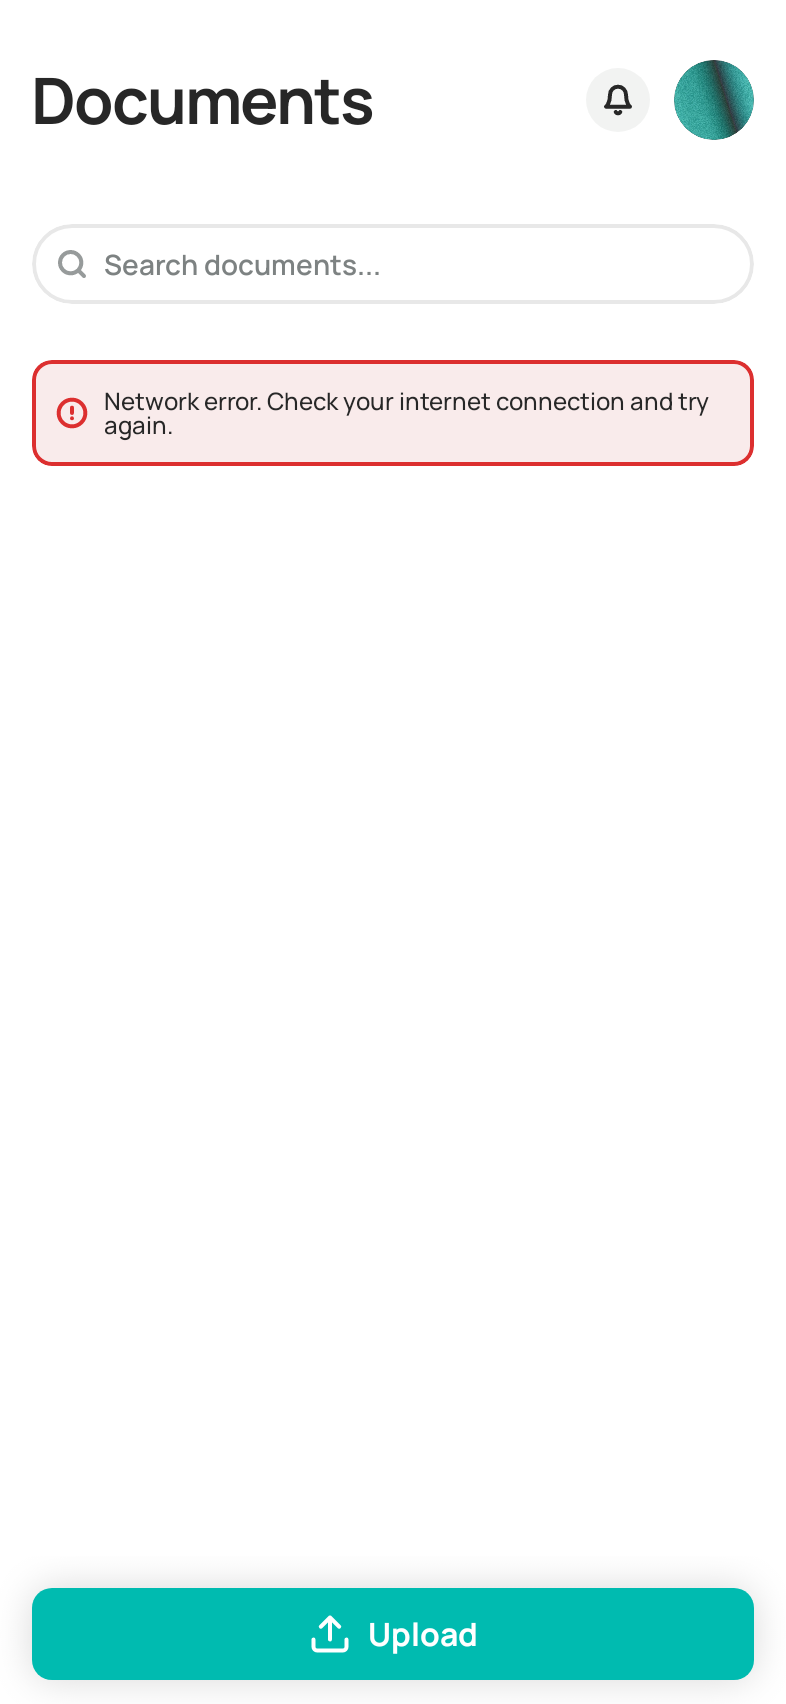
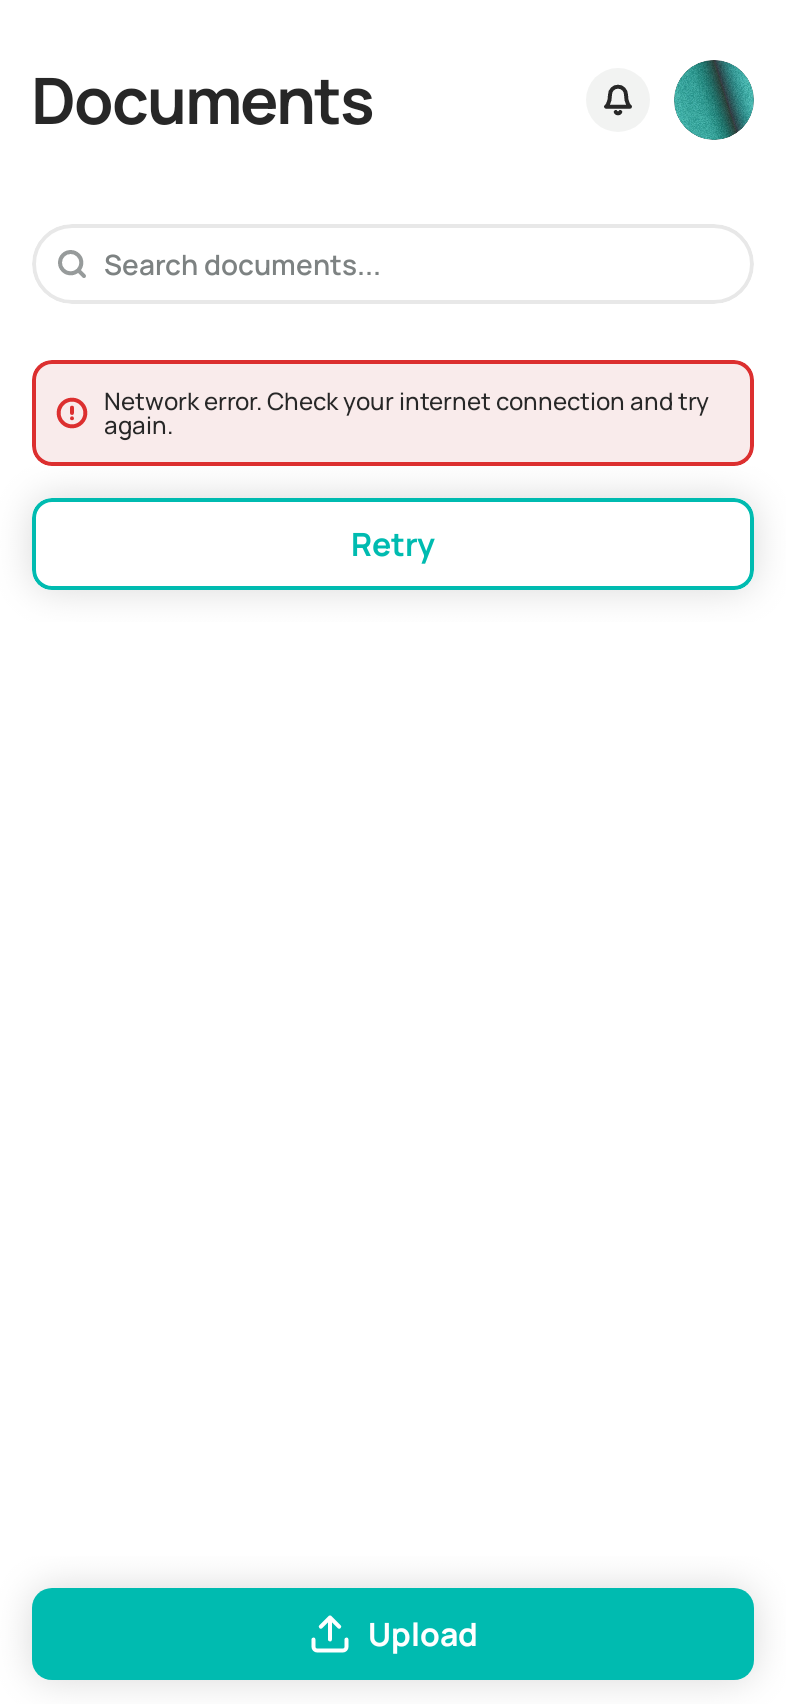
Offer Retry when the first load of Home, Bookings or Documents fails

Changed region(s): [[0.4275, 0.311, 0.5496, 0.3421], [0.9466, 0.2799, 0.9771, 0.3421], [0.0305, 0.2799, 0.0611, 0.3421]]

diff --git a/composeApp/src/commonMain/kotlin/shifa/uz/ui/home/HomeScreen.kt b/composeApp/src/commonMain/kotlin/shifa/uz/ui/home/HomeScreen.kt
@@ -49,6 +49,7 @@ import shifa.composeapp.generated.resources.now
 import shifa.composeapp.generated.resources.patient
 import shifa.composeapp.generated.resources.paymentPendingTitle
 import shifa.composeapp.generated.resources.pending
+import shifa.composeapp.generated.resources.retry
 import shifa.composeapp.generated.resources.started
 import shifa.composeapp.generated.resources.starts
 import shifa.composeapp.generated.resources.taskCategoryExercise
@@ -77,6 +78,7 @@ import shifa.uz.ui.widgets.ShifaListSkeleton
 import shifa.uz.ui.widgets.ShifaMainHeader
 import shifa.uz.ui.widgets.ShifaPageElement
 import shifa.uz.ui.widgets.ShifaPageElementType
+import shifa.uz.ui.widgets.ShifaSecondaryButton
 import shifa.uz.ui.widgets.ShifaSection
 import shifa.uz.ui.widgets.ShifaSectionType
 import shifa.uz.ui.widgets.ShifaTaskCard
@@ -174,6 +176,14 @@ internal fun HomeContent(
                     Column(verticalArrangement = Arrangement.spacedBy(ShifaSpacing.Gap.Md)) {
                         state.error?.let {
                             ShifaBanner(stringResource(it), Res.drawable.ic_alert_circle_16, ShifaBannerType.Error)
+                            // A first load that failed leaves the page empty: Retry, as on Messages.
+                            if (state.upcoming == null && !state.isLoading && !state.isRefreshing) {
+                                ShifaSecondaryButton(
+                                    stringResource(Res.string.retry),
+                                    onRefresh,
+                                    Modifier.fillMaxWidth(),
+                                )
+                            }
                         }
                         // Figma 1647:10075: a visit in its join window has its own section, and View opens it.
                         val live = state.upcoming?.filter { it.isNow(now) }.orEmpty()

diff --git a/composeApp/src/commonMain/kotlin/shifa/uz/ui/bookings/BookingsScreen.kt b/composeApp/src/commonMain/kotlin/shifa/uz/ui/bookings/BookingsScreen.kt
@@ -30,6 +30,7 @@ import shifa.composeapp.generated.resources.noAppointmentsFound
 import shifa.composeapp.generated.resources.noDoctorsFound
 import shifa.composeapp.generated.resources.pastAppointments
 import shifa.composeapp.generated.resources.recommendedDoctors
+import shifa.composeapp.generated.resources.retry
 import shifa.composeapp.generated.resources.search
 import shifa.composeapp.generated.resources.unknownDoctor
 import shifa.composeapp.generated.resources.videoConsultation
@@ -56,6 +57,7 @@ import shifa.uz.ui.widgets.ShifaPageElement
 import shifa.uz.ui.widgets.ShifaPageElementType
 import shifa.uz.ui.widgets.ShifaPastAppointmentCard
 import shifa.uz.ui.widgets.ShifaSearchField
+import shifa.uz.ui.widgets.ShifaSecondaryButton
 import shifa.uz.ui.widgets.ShifaSectionType
 import shifa.uz.ui.widgets.ShifaTag
 import shifa.uz.ui.widgets.ShifaTagType
@@ -148,6 +150,10 @@ internal fun BookingsContent(
                 ShifaPageElement(ShifaPageElementType.Body) {
                     Column(verticalArrangement = Arrangement.spacedBy(ShifaSpacing.Gap.Md)) {
                         Banners(state.error, state.notice)
+                        // A first load that failed leaves the page empty: Retry, as on Messages.
+                        if (state.error != null && state.past == null && !state.isLoading) {
+                            ShifaSecondaryButton(stringResource(Res.string.retry), onRefresh, Modifier.fillMaxWidth())
+                        }
                         if (state.filter == DoctorFilter.All) {
                             // Gone when D1 has none, unless that's a search's answer.
                             if (state.recommended?.isEmpty() != true || state.query.isNotBlank()) {

diff --git a/composeApp/src/commonMain/kotlin/shifa/uz/ui/documents/DocumentsScreen.kt b/composeApp/src/commonMain/kotlin/shifa/uz/ui/documents/DocumentsScreen.kt
@@ -104,6 +104,7 @@ import shifa.composeapp.generated.resources.ic_upload_22
 import shifa.composeapp.generated.resources.name
 import shifa.composeapp.generated.resources.noDocumentsFound
 import shifa.composeapp.generated.resources.photo
+import shifa.composeapp.generated.resources.retry
 import shifa.composeapp.generated.resources.save
 import shifa.composeapp.generated.resources.searchDocuments
 import shifa.composeapp.generated.resources.upload
@@ -316,6 +317,12 @@ internal fun DocumentsContent(
                             ShifaListSkeleton(count = 5, gap = ShifaSpacing.Gap.Md) {
                                 ShifaCardSkeleton(avatar = ShifaDimens.DocumentThumbHeight)
                             }
+                        }
+                    }
+                    // A first load that failed leaves the page empty: Retry, as on Messages.
+                    if (state.error != null && state.documents == null && !state.isLoading) {
+                        item {
+                            ShifaSecondaryButton(stringResource(Res.string.retry), onRefresh, Modifier.fillMaxWidth())
                         }
                     }
                     if (state.documents != null && shown.isEmpty()) {
